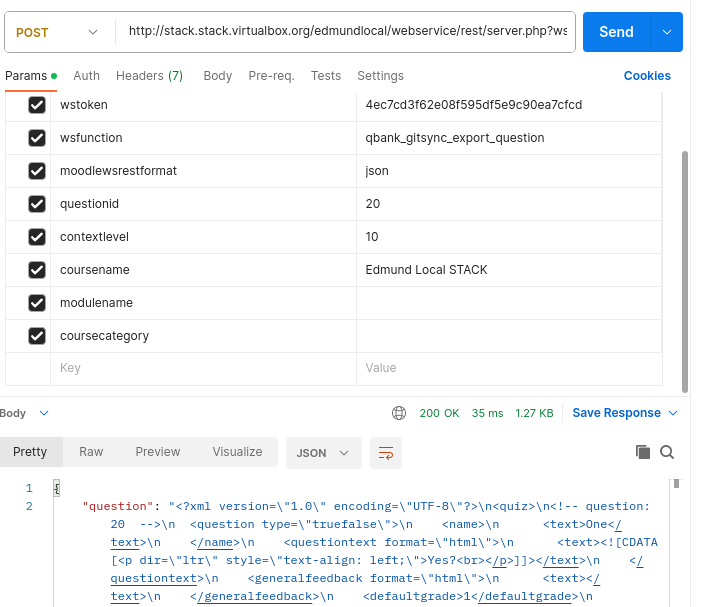
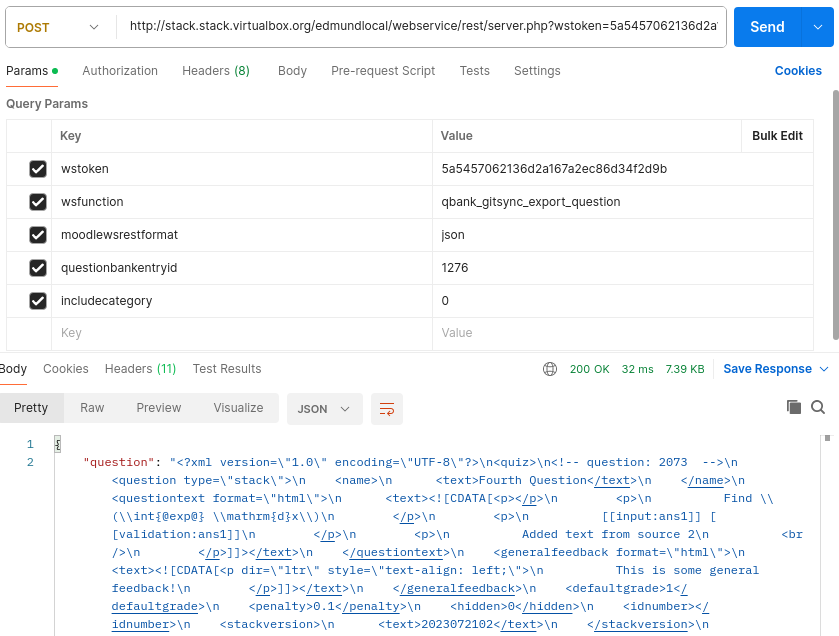
feedback - Update webservice setup docs

diff --git a/doc/webservicesetup.md b/doc/webservicesetup.md
@@ -11,6 +11,7 @@ This plugin requires the [import as new version](https://github.com/maths/moodle
     `git clone https://github.com/maths/moodle-qbank_gitsync.git question/bank/gitsync`
 - The repository will default to the `main` branch but you may need to switch to another branch if you're testing new features (e.g. `dev` for initial beta testing). In the gitsync directory e.g. `git checkout dev`.  
 - Install the plugin via Moodle.
+- Enable webservices if they are not enabled already. (Site administration/General/Advanced features/Enable webservices)
 - Run the setup script in the gitsync cli folder (`yourmoodle/question/bank/gitsync/cli/`) on the Moodle server if you have access:
   - `php webservicesetup.php`
 - Alternatively, perform user set up manually:
@@ -25,17 +26,14 @@ This plugin requires the [import as new version](https://github.com/maths/moodle
 ![Screenshot of token creation.](../images/Add_token.png)
 - Add roles for the user to give them access to the required courses and questions. If you would like them to have site-wide access, go to Site Administration/Users/Permissions/Assign system roles and give `ws-gitsync-user` Manager role for the webservice to have access to all questions on the site.  If you only want them to have access to particular courses, then make `ws-gitsync-user` Manager on courses individually.
 - If you have user agreements set up for your Moodle site, you will need to accept them on behalf of the Gitsync user. (Site Administration/Users/Privacy and policies/Manage policies/Agreements/Accept)
-- Optionally, you can test using [Postman](https://www.postman.com/downloads/) if you know a question id and its course name:
+- Optionally, you can test using [Postman](https://www.postman.com/downloads/) if you know a questionbankentry id:
   - URL: Your_Moodle_root_address/webservice/rest/server.php
   - Params:
     - wstoken: _Your token created above_
     - wsfunction: qbank_gitsync_export_question
     - moodlewsrestformat: json
-    - questionid: _Your question id_
-    - contextlevel: 10
-    - coursename: _Your course name_
-    - modulename:
-    - coursecategory:  
+    - questionbankentryid: _Your question's qbe id_
+    - includecategory: 0
 Fill in the URL and parameters above in the fields as shown in the screenshot and click 'Send'. You should get the requested question back as a response.
 ![Screenshot of Postman.](../images/Postman.png)
 
